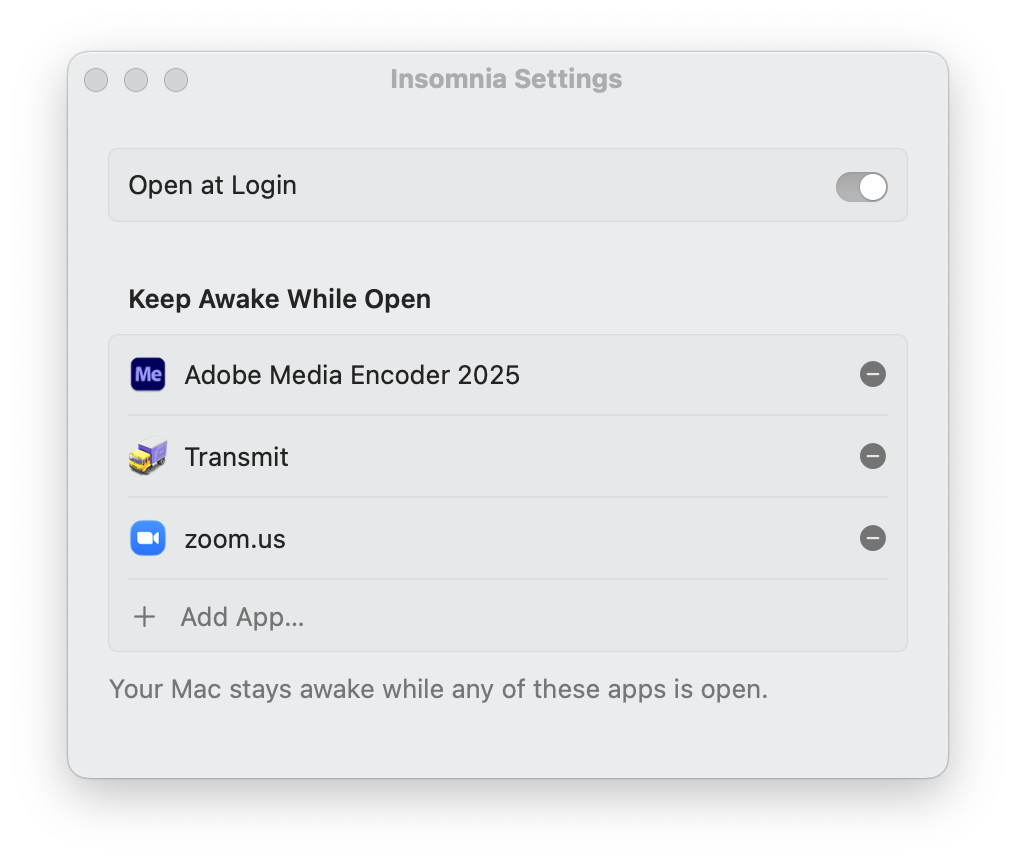
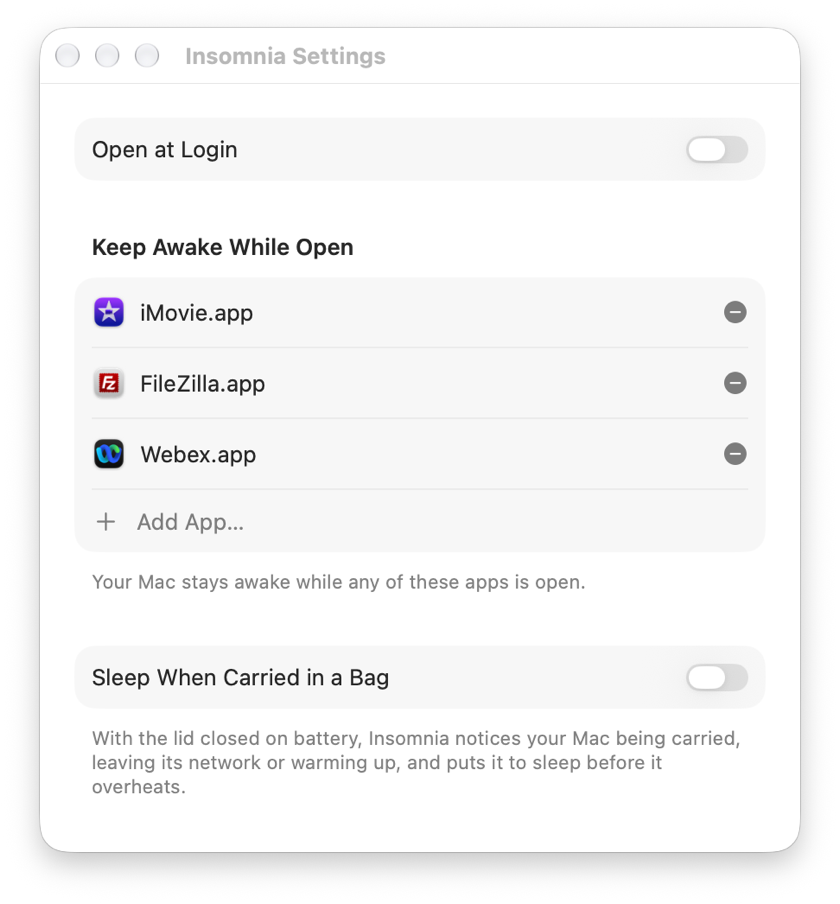
docs: show the bag toggle in the settings picture, and name it in one line

diff --git a/README.md b/README.md
@@ -64,7 +64,7 @@ Safeguards:
 - If Insomnia quits or crashes, a watchdog restores normal sleep within milliseconds.
 - Below 10 % battery, or when the Mac runs too hot, Insomnia pauses.
 - When the work is done and the lid is closed, Insomnia puts the Mac to sleep rather than leaving it running in your bag.
-- With **Sleep When Carried in a Bag** turned on in Settings (it is off by default), Insomnia gets careful when the Mac seems to be in a bag and puts it to sleep sooner. With the lid closed on battery and no display plugged in, it adds up the signs: the Mac was carried (from its motion sensor, on Apple silicon), it left the network it was closed on, and it runs warm. Carried alone, it pauses at serious heat rather than critical; carried off to another network, it sleeps.
+- Optional, off by default: **Sleep When Carried in a Bag** in Settings puts the Mac to sleep when it seems to be carried off in a bag with the lid closed.
 
 ## Light on resources
 
